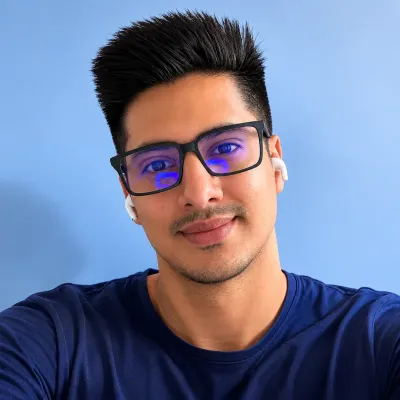
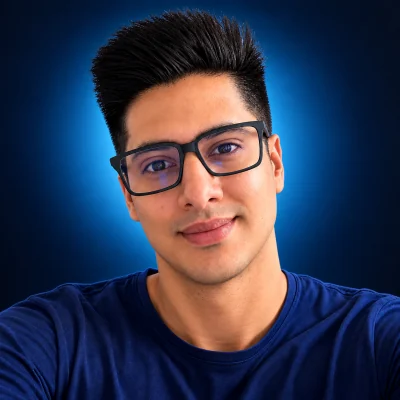
Update portfolio portrait and social preview

diff --git a/src/index.html b/src/index.html
@@ -44,13 +44,13 @@
       content="Full-stack product engineer and Tech Lead with 9+ years building Angular and Ionic applications, leading enterprise migrations, and shipping Go, Node.js and AI-enabled products." />
     <meta
       property="og:image"
-      content="https://adriancabello.dev/assets/images/portfolio-social-card.jpg" />
+      content="https://adriancabello.dev/assets/images/adrian-profile-social.jpg" />
     <meta
       property="og:image:secure_url"
-      content="https://adriancabello.dev/assets/images/portfolio-social-card.jpg" />
+      content="https://adriancabello.dev/assets/images/adrian-profile-social.jpg" />
     <meta property="og:image:type" content="image/jpeg" />
-    <meta property="og:image:width" content="1200" />
-    <meta property="og:image:height" content="630" />
+    <meta property="og:image:width" content="800" />
+    <meta property="og:image:height" content="800" />
     <meta
       property="og:image:alt"
       content="Adrian Cabello, Full-Stack Product Engineer and Tech Lead" />
@@ -59,11 +59,11 @@
     <!-- WhatsApp specific -->
     <meta
       property="og:image:secure_url"
-      content="https://adriancabello.dev/assets/images/portfolio-social-card.jpg" />
+      content="https://adriancabello.dev/assets/images/adrian-profile-social.jpg" />
     <meta property="og:image:type" content="image/jpeg" />
 
     <!-- X / Twitter -->
-    <meta name="twitter:card" content="summary_large_image" />
+    <meta name="twitter:card" content="summary" />
     <meta name="twitter:url" content="https://adriancabello.dev/" />
     <meta
       name="twitter:title"
@@ -73,7 +73,7 @@
       content="Full-stack product engineer and Tech Lead with 9+ years building Angular and Ionic applications, leading enterprise migrations, and shipping Go, Node.js and AI-enabled products." />
     <meta
       name="twitter:image"
-      content="https://adriancabello.dev/assets/images/portfolio-social-card.jpg" />
+      content="https://adriancabello.dev/assets/images/adrian-profile-social.jpg" />
     <meta
       name="twitter:image:alt"
       content="Adrian Cabello, Full-Stack Product Engineer and Tech Lead" />

diff --git a/src/app/services/meta.service.ts b/src/app/services/meta.service.ts
@@ -14,7 +14,7 @@ interface PublicPage {
 @Injectable({ providedIn: 'root' })
 export class MetaService {
   private readonly baseUrl = 'https://adriancabello.dev';
-  private readonly imageUrl = `${this.baseUrl}/assets/images/portfolio-social-card.jpg`;
+  private readonly imageUrl = `${this.baseUrl}/assets/images/adrian-profile-social.jpg`;
 
   constructor(
     private readonly meta: Meta,
@@ -128,8 +128,8 @@ export class MetaService {
       content: this.imageUrl,
     });
     this.meta.updateTag({ property: 'og:image:type', content: 'image/jpeg' });
-    this.meta.updateTag({ property: 'og:image:width', content: '1200' });
-    this.meta.updateTag({ property: 'og:image:height', content: '630' });
+    this.meta.updateTag({ property: 'og:image:width', content: '800' });
+    this.meta.updateTag({ property: 'og:image:height', content: '800' });
     this.meta.updateTag({ property: 'og:image:alt', content: title });
     this.meta.updateTag({
       property: 'og:site_name',
@@ -146,7 +146,7 @@ export class MetaService {
 
     this.meta.updateTag({
       name: 'twitter:card',
-      content: 'summary_large_image',
+      content: 'summary',
     });
     this.meta.updateTag({ name: 'twitter:url', content: canonicalUrl });
     this.meta.updateTag({ name: 'twitter:title', content: title });
